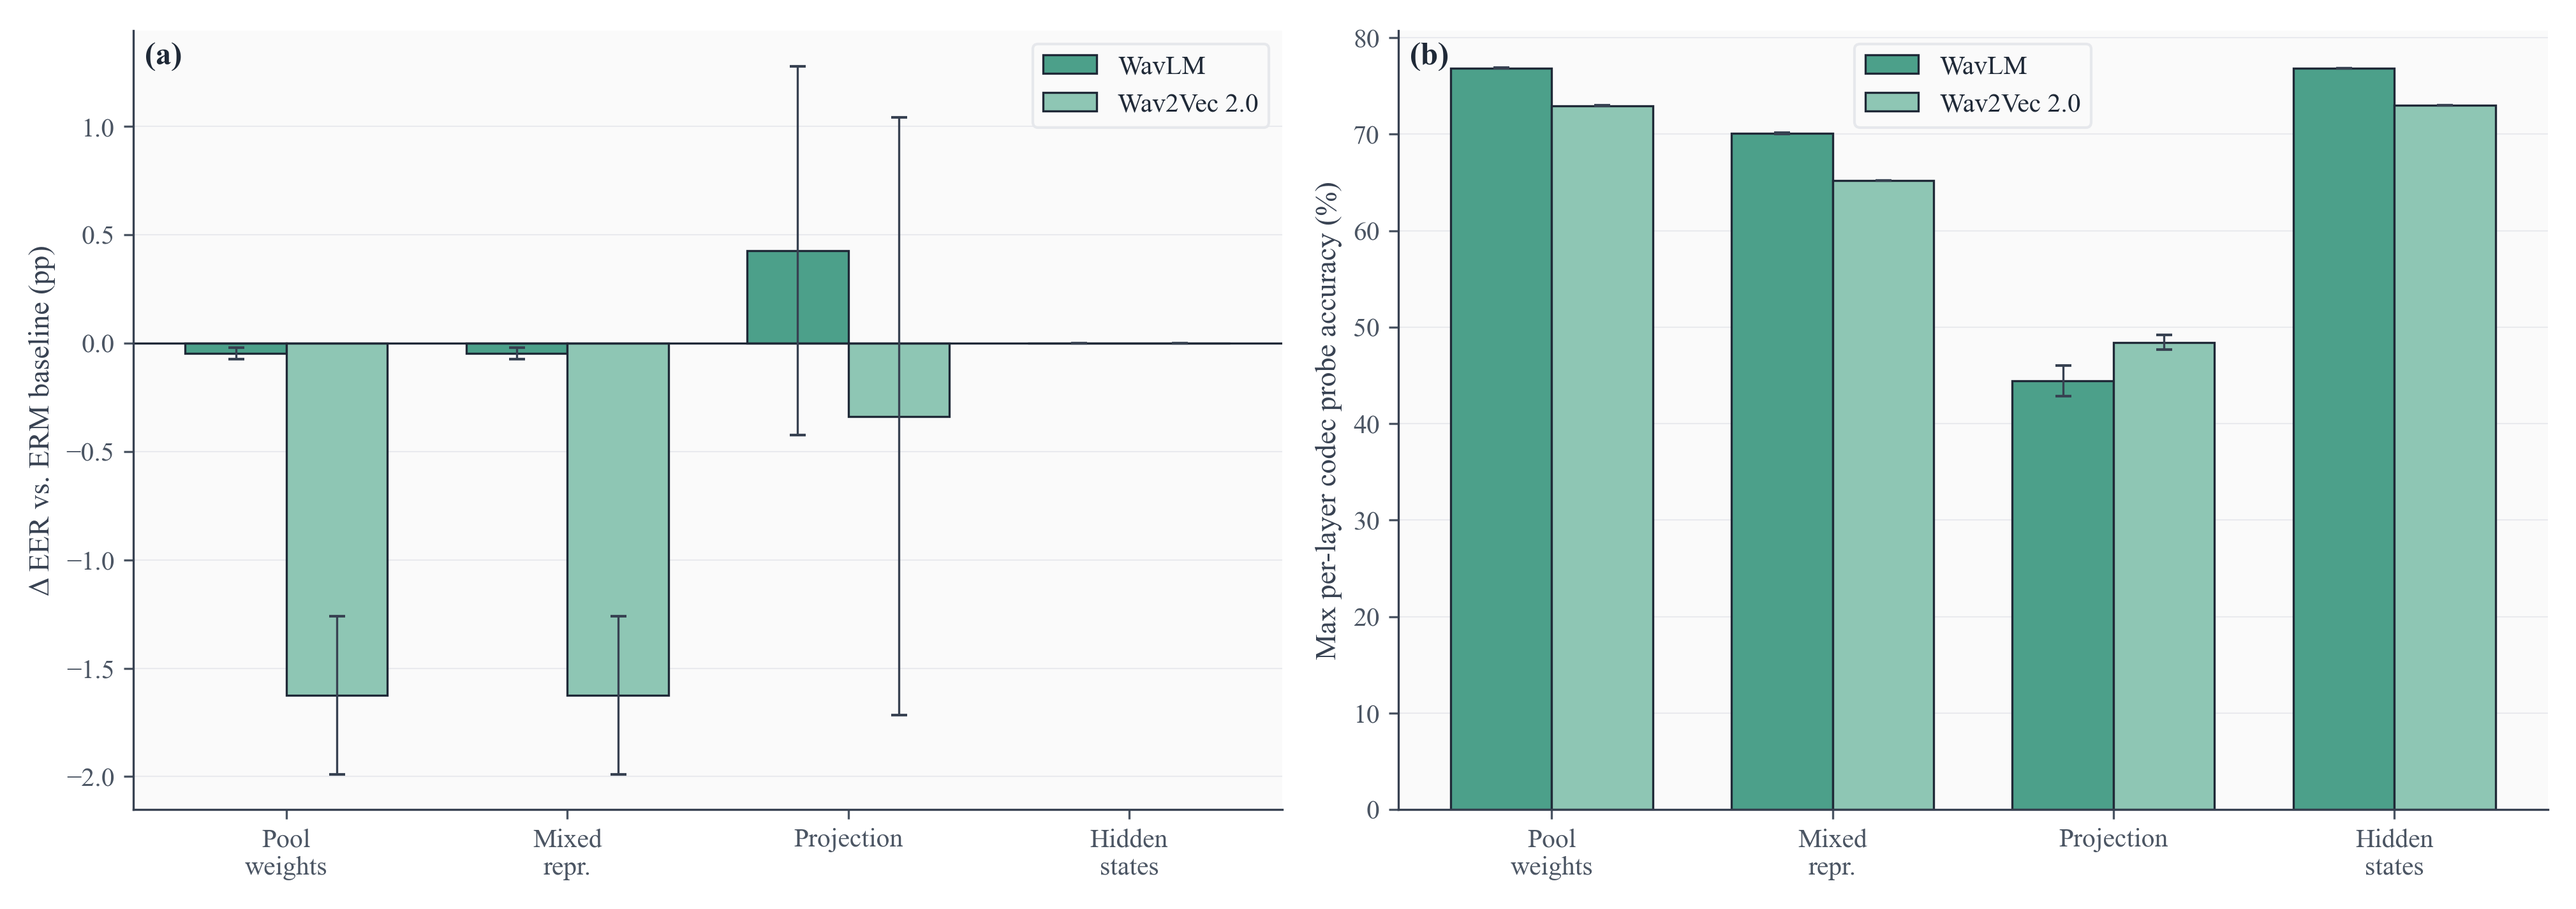
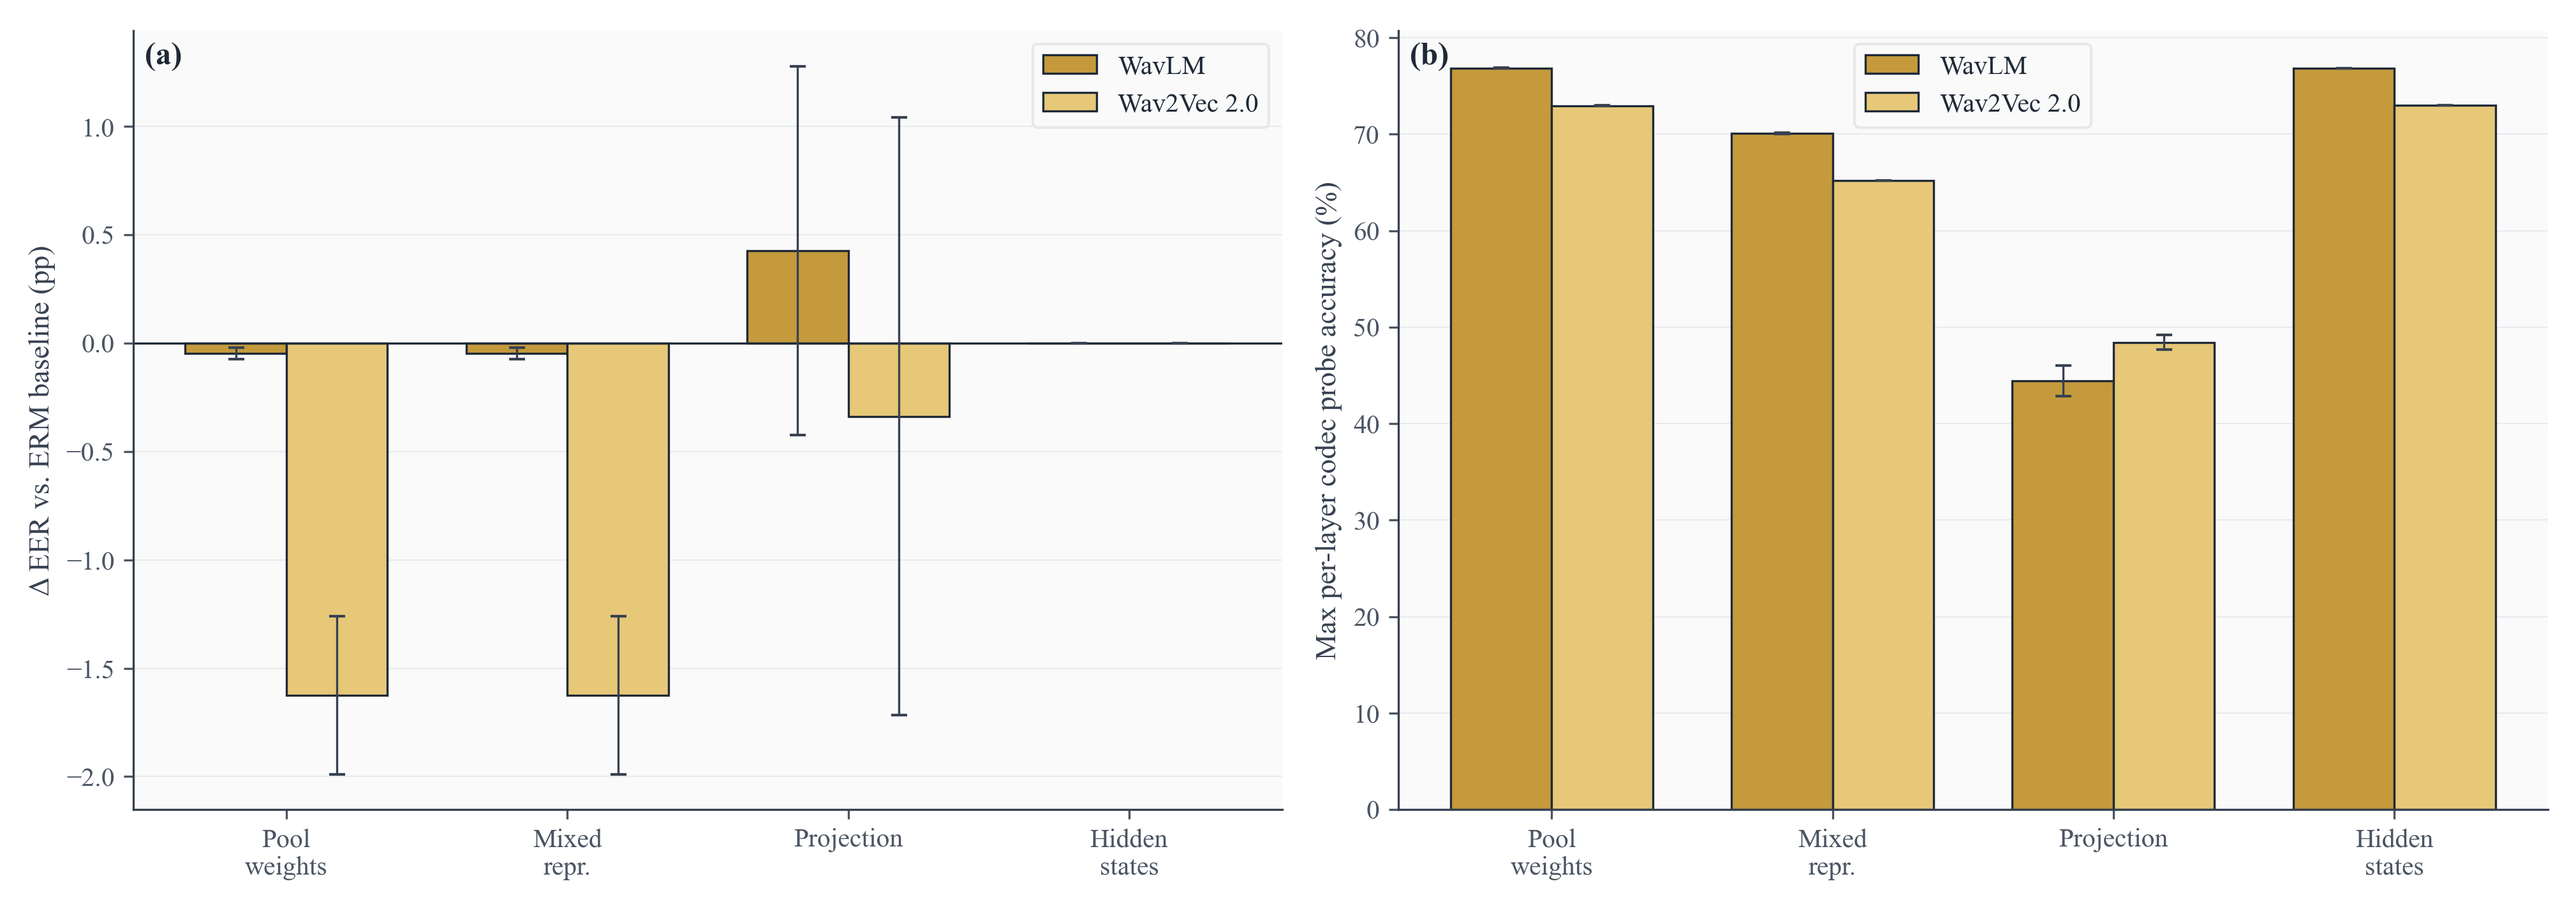
figures(transplant): switch to gold palette for transplant bars
Transplant is a third comparison dimension distinct from the ERM-vs-DANN
axis the other RQ4 plots carry, so it gets the thesis gold/amber family
(same hue used for ERM+Aug elsewhere). WavLM bold, W2V2 lighter. Avoids
implying a teal bar here is the "DANN bar" from neighboring figures.

diff --git a/scripts/plot_transplant_results.py b/scripts/plot_transplant_results.py
@@ -36,11 +36,13 @@ ROOT = Path(__file__).resolve().parent.parent
 IN_DIR = ROOT / "results" / "component_transplant"
 OUT_DIR = ROOT / "figures" / "rq4"
 
-# Component transplant interventions are DANN-donor operations, so bars
-# use the DANN (teal) family. WavLM = bold teal, W2V2 = lighter teal.
+# Transplant is its own comparison dimension (not ERM-vs-DANN), so use the
+# gold/amber family the thesis already reserves for "transplant / augment"
+# operations (see plot_per_codec_bias ERM+Aug). WavLM = bold gold,
+# W2V2 = lighter gold.
 COLORS = {
-    "wavlm": "#4CA08A",  # teal (bold)
-    "w2v2":  "#8EC6B4",  # teal (light)
+    "wavlm": "#C49A3C",  # gold (bold)
+    "w2v2":  "#E6C878",  # gold (light)
 }
 
 MODES = [
